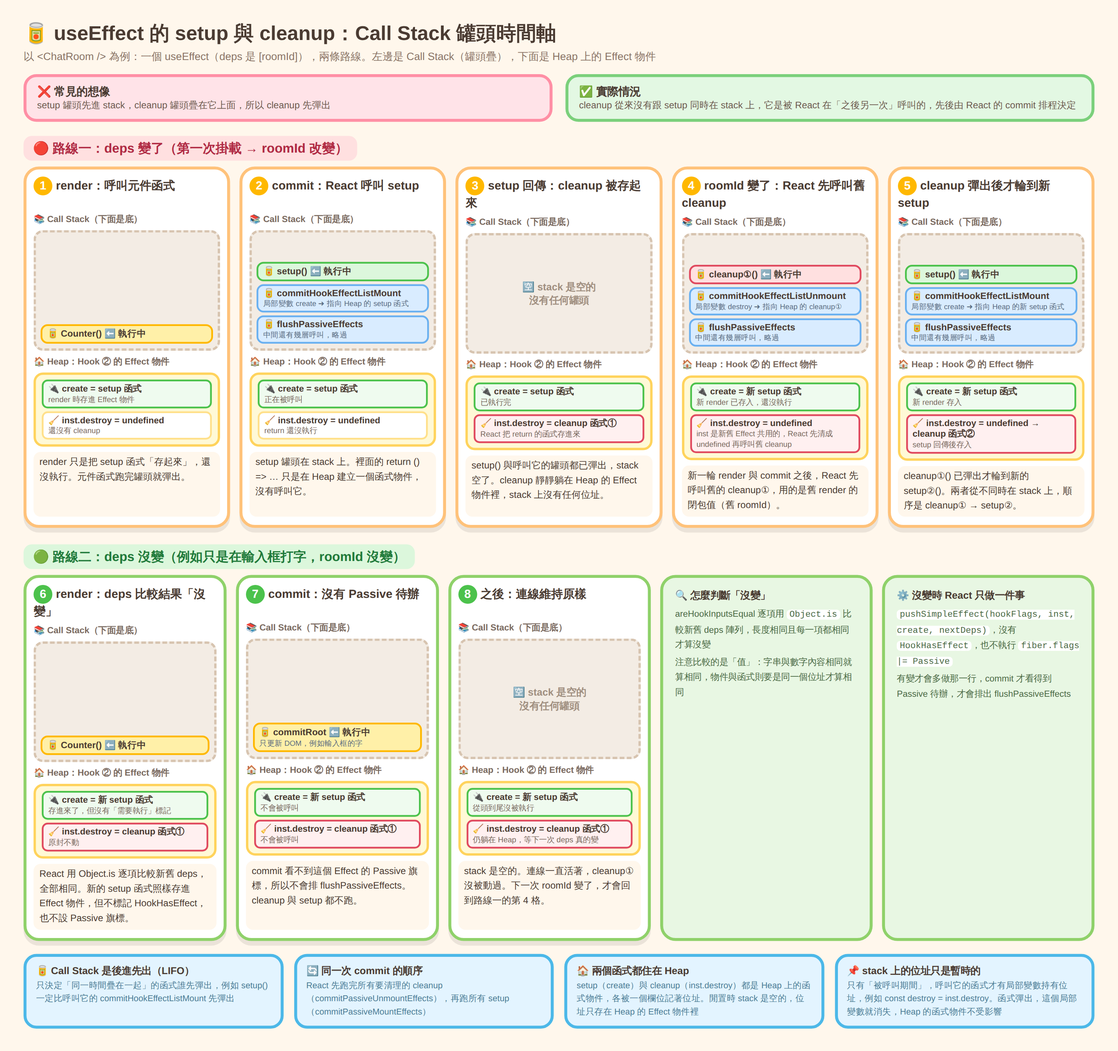
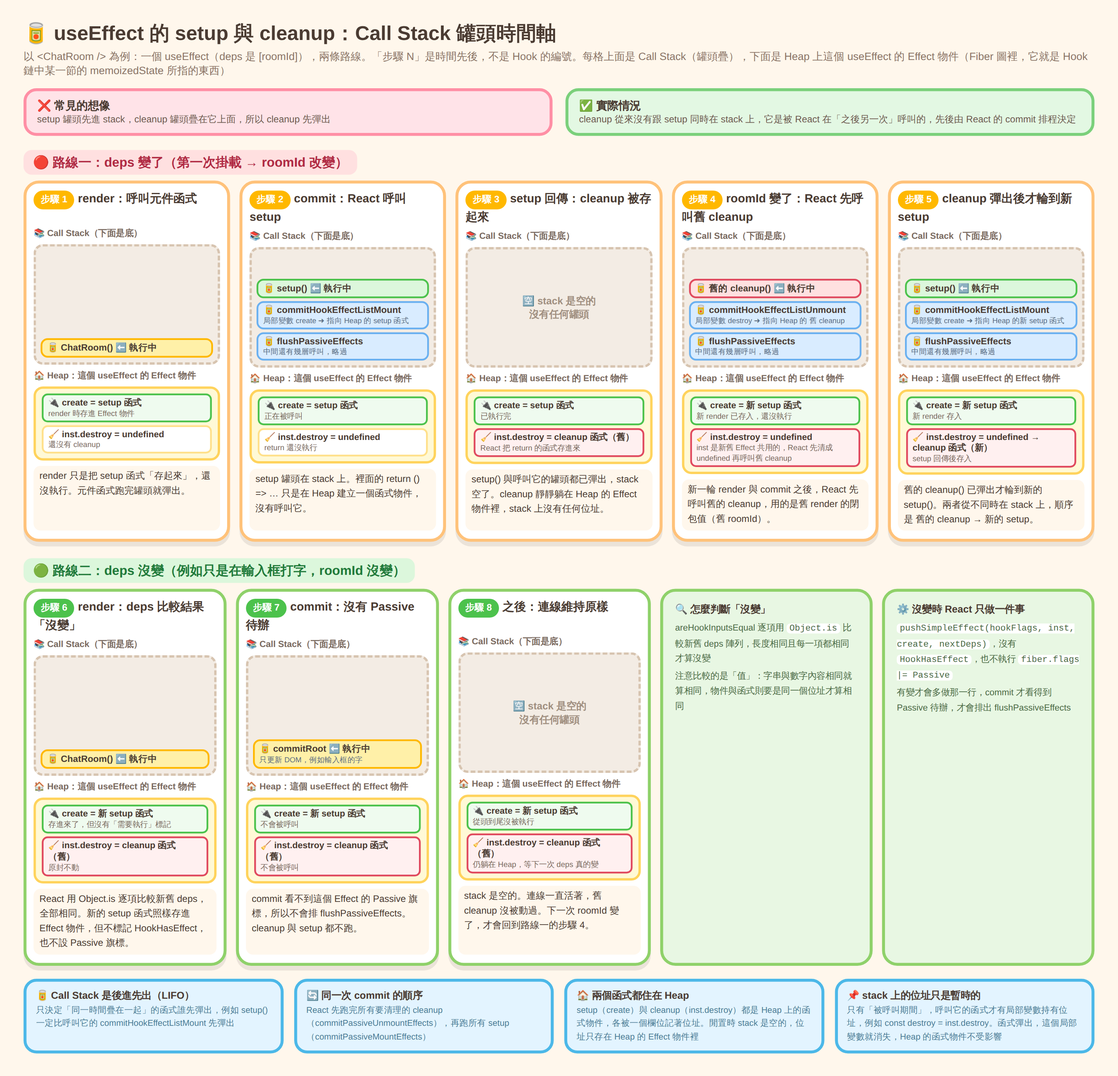
docs: Effect 心智模型圖、環狀結構圖、return 互動圖解、螢光標示、queue 與 inst 說明、Effect 與 useEffect 措辭

diff --git a/frontend-docs/react/useEffect-setup與cleanup-CallStack罐頭時間軸-可愛圖.html b/frontend-docs/react/useEffect-setup與cleanup-CallStack罐頭時間軸-可愛圖.html
@@ -19,7 +19,7 @@ h1{margin:0 0 4px;font-size:34px}
 .fr{flex:1;min-width:0;background:#fff;border-radius:26px;border:5px solid #ffc27a;padding:12px 12px 14px;box-shadow:0 8px 0 rgba(0,0,0,.08);display:flex;flex-direction:column;gap:9px}
 .fr.gr{border-color:#8fd16a}
 .fr h3{margin:0;font-size:20px;line-height:1.35;min-height:54px}
-.fr h3 span{display:inline-block;background:#ffb800;color:#fff;border-radius:50%;width:32px;height:32px;line-height:32px;text-align:center;margin-right:6px}
+.fr h3 span{display:inline-block;background:#ffb800;color:#fff;border-radius:999px;padding:0 12px;height:32px;line-height:32px;text-align:center;margin-right:6px;font-size:16px;white-space:nowrap}
 .fr.gr h3 span{background:#4cc24c}
 .lab{font-size:15px;font-weight:800;color:#7a6a5f}
 .stack{height:205px;background:#f3ece4;border-radius:16px;border:4px dashed #d7c4b0;padding:8px;display:flex;flex-direction:column-reverse;gap:5px}
@@ -45,7 +45,7 @@ h1{margin:0 0 4px;font-size:34px}
 <body>
 <div id="art">
   <h1>🥫 useEffect 的 setup 與 cleanup：Call Stack 罐頭時間軸</h1>
-  <div class="sub">以 &lt;ChatRoom /&gt; 為例：一個 useEffect（deps 是 [roomId]），兩條路線。左邊是 Call Stack（罐頭疊），下面是 Heap 上的 Effect 物件</div>
+  <div class="sub">以 &lt;ChatRoom /&gt; 為例：一個 useEffect（deps 是 [roomId]），兩條路線。「步驟 N」是時間先後，不是 Hook 的編號。每格上面是 Call Stack（罐頭疊），下面是 Heap 上這個 useEffect 的 Effect 物件（Fiber 圖裡，它就是 Hook 鏈中某一節的 memoizedState 所指的東西）</div>
   <div class="vs">
     <div class="no">❌ 常見的想像<small>setup 罐頭先進 stack，cleanup 罐頭疊在它上面，所以 cleanup 先彈出</small></div>
     <div class="ok">✅ 實際情況<small>cleanup 從來沒有跟 setup 同時在 stack 上，它是被 React 在「之後另一次」呼叫的，先後由 React 的 commit 排程決定</small></div>
@@ -64,16 +64,16 @@ h1{margin:0 0 4px;font-size:34px}
 <script>
 var SKIP='中間還有幾層呼叫，略過';
 var A=[
- {t:'render：呼叫元件函式',st:[['Counter()','top']],h:[['create = setup 函式','render 時存進 Effect 物件','su'],['inst.destroy = undefined','還沒有 cleanup','']],c:'render 只是把 setup 函式「存起來」，還沒執行。元件函式跑完罐頭就彈出。'},
+ {t:'render：呼叫元件函式',st:[['ChatRoom()','top']],h:[['create = setup 函式','render 時存進 Effect 物件','su'],['inst.destroy = undefined','還沒有 cleanup','']],c:'render 只是把 setup 函式「存起來」，還沒執行。元件函式跑完罐頭就彈出。'},
  {t:'commit：React 呼叫 setup',st:[['flushPassiveEffects','',SKIP],['commitHookEffectListMount','','局部變數 create ➜ 指向 Heap 的 setup 函式'],['setup()','su top']],h:[['create = setup 函式','正在被呼叫','su'],['inst.destroy = undefined','return 還沒執行','']],c:'setup 罐頭在 stack 上。裡面的 return () =&gt; … 只是在 Heap 建立一個函式物件，沒有呼叫它。'},
- {t:'setup 回傳：cleanup 被存起來',st:[],h:[['create = setup 函式','已執行完','su'],['inst.destroy = cleanup 函式①','React 把 return 的函式存進來','cl']],c:'setup() 與呼叫它的罐頭都已彈出，stack 空了。cleanup 靜靜躺在 Heap 的 Effect 物件裡，stack 上沒有任何位址。'},
- {t:'roomId 變了：React 先呼叫舊 cleanup',st:[['flushPassiveEffects','',SKIP],['commitHookEffectListUnmount','','局部變數 destroy ➜ 指向 Heap 的 cleanup①'],['cleanup①()','cl top']],h:[['create = 新 setup 函式','新 render 已存入，還沒執行','su'],['inst.destroy = undefined','inst 是新舊 Effect 共用的，React 先清成 undefined 再呼叫舊 cleanup','cl']],c:'新一輪 render 與 commit 之後，React 先呼叫舊的 cleanup①，用的是舊 render 的閉包值（舊 roomId）。'},
- {t:'cleanup 彈出後才輪到新 setup',st:[['flushPassiveEffects','',SKIP],['commitHookEffectListMount','','局部變數 create ➜ 指向 Heap 的新 setup 函式'],['setup()','su top']],h:[['create = 新 setup 函式','新 render 存入','su'],['inst.destroy = undefined → cleanup 函式②','setup 回傳後存入','cl']],c:'cleanup①() 已彈出才輪到新的 setup②()。兩者從不同時在 stack 上，順序是 cleanup① → setup②。'}
+ {t:'setup 回傳：cleanup 被存起來',st:[],h:[['create = setup 函式','已執行完','su'],['inst.destroy = cleanup 函式（舊）','React 把 return 的函式存進來','cl']],c:'setup() 與呼叫它的罐頭都已彈出，stack 空了。cleanup 靜靜躺在 Heap 的 Effect 物件裡，stack 上沒有任何位址。'},
+ {t:'roomId 變了：React 先呼叫舊 cleanup',st:[['flushPassiveEffects','',SKIP],['commitHookEffectListUnmount','','局部變數 destroy ➜ 指向 Heap 的 舊 cleanup'],['舊的 cleanup()','cl top']],h:[['create = 新 setup 函式','新 render 已存入，還沒執行','su'],['inst.destroy = undefined','inst 是新舊 Effect 共用的，React 先清成 undefined 再呼叫舊 cleanup','cl']],c:'新一輪 render 與 commit 之後，React 先呼叫舊的 cleanup，用的是舊 render 的閉包值（舊 roomId）。'},
+ {t:'cleanup 彈出後才輪到新 setup',st:[['flushPassiveEffects','',SKIP],['commitHookEffectListMount','','局部變數 create ➜ 指向 Heap 的新 setup 函式'],['setup()','su top']],h:[['create = 新 setup 函式','新 render 存入','su'],['inst.destroy = undefined → cleanup 函式（新）','setup 回傳後存入','cl']],c:'舊的 cleanup() 已彈出才輪到新的 setup()。兩者從不同時在 stack 上，順序是 舊的 cleanup → 新的 setup。'}
 ];
 var B=[
- {t:'render：deps 比較結果「沒變」',st:[['Counter()','top']],h:[['create = 新 setup 函式','存進來了，但沒有「需要執行」標記','su'],['inst.destroy = cleanup 函式①','原封不動','cl']],c:'React 用 Object.is 逐項比較新舊 deps，全部相同。新的 setup 函式照樣存進 Effect 物件，但不標記 HookHasEffect，也不設 Passive 旗標。'},
- {t:'commit：沒有 Passive 待辦',st:[['commitRoot','top','只更新 DOM，例如輸入框的字']],h:[['create = 新 setup 函式','不會被呼叫','su'],['inst.destroy = cleanup 函式①','不會被呼叫','cl']],c:'commit 看不到這個 Effect 的 Passive 旗標，所以不會排 flushPassiveEffects。cleanup 與 setup 都不跑。'},
- {t:'之後：連線維持原樣',st:[],h:[['create = 新 setup 函式','從頭到尾沒被執行','su'],['inst.destroy = cleanup 函式①','仍躺在 Heap，等下一次 deps 真的變','cl']],c:'stack 是空的。連線一直活著，cleanup① 沒被動過。下一次 roomId 變了，才會回到路線一的第 4 格。'}
+ {t:'render：deps 比較結果「沒變」',st:[['ChatRoom()','top']],h:[['create = 新 setup 函式','存進來了，但沒有「需要執行」標記','su'],['inst.destroy = cleanup 函式（舊）','原封不動','cl']],c:'React 用 Object.is 逐項比較新舊 deps，全部相同。新的 setup 函式照樣存進 Effect 物件，但不標記 HookHasEffect，也不設 Passive 旗標。'},
+ {t:'commit：沒有 Passive 待辦',st:[['commitRoot','top','只更新 DOM，例如輸入框的字']],h:[['create = 新 setup 函式','不會被呼叫','su'],['inst.destroy = cleanup 函式（舊）','不會被呼叫','cl']],c:'commit 看不到這個 Effect 的 Passive 旗標，所以不會排 flushPassiveEffects。cleanup 與 setup 都不跑。'},
+ {t:'之後：連線維持原樣',st:[],h:[['create = 新 setup 函式','從頭到尾沒被執行','su'],['inst.destroy = cleanup 函式（舊）','仍躺在 Heap，等下一次 deps 真的變','cl']],c:'stack 是空的。連線一直活著，舊 cleanup 沒被動過。下一次 roomId 變了，才會回到路線一的步驟 4。'}
 ];
 function render(data,id,cls){
   var h='';
@@ -84,7 +84,7 @@ function render(data,id,cls){
     }).join('');
     if(!f.st.length) cans='<div class="empty">🈳 stack 是空的<br>沒有任何罐頭</div>';
     var rows=f.h.map(function(r){return '<div class="row '+r[2]+'">'+(r[2]==='su'?'🔌 ':'🧹 ')+r[0]+(r[1]?'<small>'+r[1]+'</small>':'')+'</div>';}).join('');
-    h+='<div class="fr '+cls+'"><h3><span>'+(i+1+(cls?5:0))+'</span>'+f.t+'</h3><div class="lab">📚 Call Stack（下面是底）</div><div class="stack">'+cans+'</div><div class="lab">🏠 Heap：Hook ② 的 Effect 物件</div><div class="heap">'+rows+'</div><div class="cap">'+f.c+'</div></div>';
+    h+='<div class="fr '+cls+'"><h3><span>步驟 '+(i+1+(cls?5:0))+'</span>'+f.t+'</h3><div class="lab">📚 Call Stack（下面是底）</div><div class="stack">'+cans+'</div><div class="lab">🏠 Heap：這個 useEffect 的 Effect 物件</div><div class="heap">'+rows+'</div><div class="cap">'+f.c+'</div></div>';
   });
   document.getElementById(id).innerHTML=h;
 }

diff --git a/frontend-docs/react/FiberNode內部結構-可愛圖.html b/frontend-docs/react/FiberNode內部結構-可愛圖.html
@@ -85,6 +85,9 @@ td:first-child{width:44px;font-size:26px}
 .tk{font-style:normal;border-radius:8px;padding:1px 9px;font-size:14px;font-weight:800;margin:0 4px}
 .tk.s{background:#d3f9d8;color:#1b6e2c}.tk.c{background:#ffd8e4;color:#a1244a}.tk.n{background:#eceff4;color:#6b7280}
 .smnote{font-size:14px;line-height:1.6;color:#4a5b6a;font-weight:600;margin-top:8px}
+.rcap{font-size:14.5px;color:#4c7d96;font-weight:600;line-height:1.5;margin-bottom:6px}
+.ringbox .rings{display:flex;gap:16px}
+.ringbox .rg{flex:1;min-width:0}
 </style>
 </head>
 <body>
@@ -105,7 +108,7 @@ td:first-child{width:44px;font-size:26px}
       <div style="font-size:17px;color:#6b8a5a">React 依照你呼叫 Hook 的順序，一節一節掛上去（所以 Hook 不能寫在 if 裡）。每一節都是同一種 Hook 物件，差別只在 memoizedState 裡放什麼</div>
       <div class="lane">
         <div class="st">
-          <div class="car st1"><span class="e">🧠</span>Hook ①<small>useState</small></div>
+          <div class="car st1"><span class="e">🧠</span>第 1 個 Hook<small>useState</small></div>
           <div class="down">⬇ 打開</div>
           <div class="pop s">
             <div class="t">🧠 useState 的 Hook 物件</div>
@@ -120,7 +123,7 @@ td:first-child{width:44px;font-size:26px}
         </div>
         <div class="nx">➡<small>next</small></div>
         <div class="st">
-          <div class="car fx"><span class="e">⚡</span>Hook ②<small>useEffect</small></div>
+          <div class="car fx"><span class="e">⚡</span>第 2 個 Hook<small>useEffect</small></div>
           <div class="down">⬇ 打開</div>
           <div class="pop f">
             <div class="t">⚡ useEffect 的 Hook 物件</div>
@@ -136,7 +139,7 @@ td:first-child{width:44px;font-size:26px}
         </div>
         <div class="nx">➡<small>next</small></div>
         <div class="st">
-          <div class="car rf"><span class="e">📦</span>Hook ③<small>useRef</small></div>
+          <div class="car rf"><span class="e">📦</span>第 3 個 Hook<small>useRef</small></div>
           <div class="down">⬇ 打開</div>
           <div class="pop r">
             <div class="t">📦 useRef 的 Hook 物件</div>
@@ -155,25 +158,10 @@ td:first-child{width:44px;font-size:26px}
   <div class="bottom">
     <div class="card ringbox">
       <h2>🔄 真正的「環」有兩個，都不是 Hook 鏈</h2>
+      <div class="rcap">環：最後一個元素的 <code>next</code> 又指回第一個。外面的指標只記住「最後一個」，要找第一個就走一步 <code>last.next</code>。新增元素時接在最後一個後面，再把指標改指向新的最後一個</div>
       <div class="rings">
-        <div class="rg">
-          <div class="cap">① Effect 清單：fiber.updateQueue.lastEffect 指向最後一個</div>
-          <div class="eff">
-            <div class="e1"><span class="e">⚡</span>Effect A</div><span style="font-size:26px">➡</span>
-            <div class="e1"><span class="e">⚡</span>Effect B</div><span style="font-size:26px">➡</span>
-            <div class="e1"><span class="e">⚡</span>Effect C</div>
-          </div>
-          <div class="back">↩ C 的 next 回到 A</div>
-        </div>
-        <div class="rg">
-          <div class="cap">② 待處理更新：hook.queue.pending 指向最後一個</div>
-          <div class="eff">
-            <div class="e1"><span class="e">📨</span>setCount(1)</div><span style="font-size:26px">➡</span>
-            <div class="e1"><span class="e">📨</span>setCount(2)</div><span style="font-size:26px">➡</span>
-            <div class="e1"><span class="e">📨</span>setCount(3)</div>
-          </div>
-          <div class="back">↩ 最後一封的 next 回到第一封</div>
-        </div>
+        <div class="rg"><div class="cap">① Effect 清單（掛在 fiber 上）：這個元件所有 useEffect 與 useLayoutEffect 的 Effect 物件</div><svg viewBox="-60 0 380 300" width="340" height="268" style="display:block;margin:0 auto"><defs><marker id="m2f8fd8" viewBox="0 0 10 10" refX="8" refY="5" markerWidth="7" markerHeight="7" orient="auto"><path d="M0 0L10 5L0 10z" fill="#2f8fd8"/></marker></defs><path d="M196 62 Q262 80 252 150" fill="none" stroke="#2f8fd8" stroke-width="5" stroke-linecap="round" marker-end="url(#m2f8fd8)"/><path d="M186 200 Q150 232 114 200" fill="none" stroke="#2f8fd8" stroke-width="5" stroke-linecap="round" marker-end="url(#m2f8fd8)"/><path d="M48 150 Q40 80 104 62" fill="none" stroke="#2f8fd8" stroke-width="5" stroke-linecap="round" marker-end="url(#m2f8fd8)"/><text x="262" y="100" font-size="13" font-weight="800" fill="#2f8fd8">next</text><text x="132" y="240" font-size="13" font-weight="800" fill="#2f8fd8">next</text><text x="-56" y="104" font-size="13" font-weight="800" fill="#2f8fd8">next（繞回）</text><rect x="98" y="25" width="104" height="46" rx="14" fill="#fff" stroke="#2f8fd8" stroke-width="4"/><text x="150" y="46" font-size="20" text-anchor="middle">⚡</text><text x="150" y="64" font-size="13" font-weight="800" text-anchor="middle" fill="#3a3040">Effect A</text><rect x="186" y="155" width="104" height="46" rx="14" fill="#fff" stroke="#2f8fd8" stroke-width="4"/><text x="238" y="176" font-size="20" text-anchor="middle">⚡</text><text x="238" y="194" font-size="13" font-weight="800" text-anchor="middle" fill="#3a3040">Effect B</text><rect x="10" y="155" width="104" height="46" rx="14" fill="#fff" stroke="#2f8fd8" stroke-width="6"/><text x="62" y="176" font-size="20" text-anchor="middle">⚡</text><text x="62" y="194" font-size="13" font-weight="800" text-anchor="middle" fill="#3a3040">Effect C</text><text x="150" y="132" font-size="13" font-weight="800" text-anchor="middle" fill="#6b5a4f">第一個 ＝ 最後一個.next</text><text x="-56" y="266" font-size="13" font-weight="800" fill="#c0283f">☝ fiber.updateQueue.lastEffect</text><text x="-56" y="285" font-size="13" font-weight="800" fill="#c0283f">　 指向粗框那一個（最後一個）</text></svg></div>
+        <div class="rg"><div class="cap">② 待處理更新（掛在 useState 的 queue 上）：每呼叫一次 setCount 就多一封更新</div><svg viewBox="-60 0 380 300" width="340" height="268" style="display:block;margin:0 auto"><defs><marker id="m8a4fd6" viewBox="0 0 10 10" refX="8" refY="5" markerWidth="7" markerHeight="7" orient="auto"><path d="M0 0L10 5L0 10z" fill="#8a4fd6"/></marker></defs><path d="M196 62 Q262 80 252 150" fill="none" stroke="#8a4fd6" stroke-width="5" stroke-linecap="round" marker-end="url(#m8a4fd6)"/><path d="M186 200 Q150 232 114 200" fill="none" stroke="#8a4fd6" stroke-width="5" stroke-linecap="round" marker-end="url(#m8a4fd6)"/><path d="M48 150 Q40 80 104 62" fill="none" stroke="#8a4fd6" stroke-width="5" stroke-linecap="round" marker-end="url(#m8a4fd6)"/><text x="262" y="100" font-size="13" font-weight="800" fill="#8a4fd6">next</text><text x="132" y="240" font-size="13" font-weight="800" fill="#8a4fd6">next</text><text x="-56" y="104" font-size="13" font-weight="800" fill="#8a4fd6">next（繞回）</text><rect x="98" y="25" width="104" height="46" rx="14" fill="#fff" stroke="#8a4fd6" stroke-width="4"/><text x="150" y="46" font-size="20" text-anchor="middle">📨</text><text x="150" y="64" font-size="13" font-weight="800" text-anchor="middle" fill="#3a3040">setCount(1)</text><rect x="186" y="155" width="104" height="46" rx="14" fill="#fff" stroke="#8a4fd6" stroke-width="4"/><text x="238" y="176" font-size="20" text-anchor="middle">📨</text><text x="238" y="194" font-size="13" font-weight="800" text-anchor="middle" fill="#3a3040">setCount(2)</text><rect x="10" y="155" width="104" height="46" rx="14" fill="#fff" stroke="#8a4fd6" stroke-width="6"/><text x="62" y="176" font-size="20" text-anchor="middle">📨</text><text x="62" y="194" font-size="13" font-weight="800" text-anchor="middle" fill="#3a3040">setCount(3)</text><text x="150" y="132" font-size="13" font-weight="800" text-anchor="middle" fill="#6b5a4f">第一個 ＝ 最後一個.next</text><text x="-56" y="266" font-size="13" font-weight="800" fill="#c0283f">☝ hook.queue.pending</text><text x="-56" y="285" font-size="13" font-weight="800" fill="#c0283f">　 指向粗框那一個（最後一個）</text></svg><div class="rcap" style="margin-top:2px">第一次 setCount 時只有一封，它的 next 指向自己</div></div>
       </div>
     </div>
     <div class="card ctxbox">

diff --git a/frontend-docs/react/02-useEffect的setup清理函式-return一個函式而不是執行它-互動版.html b/frontend-docs/react/02-useEffect的setup清理函式-return一個函式而不是執行它-互動版.html
@@ -150,6 +150,74 @@ footer a{color:var(--accent)}
     <b>用詞校正</b>：<code>return</code> 是<span class="hl-y">回傳／交還</span>，不是「丟出」。
     JS 裡「丟出／拋出」專指 <code>throw</code>（丟例外）。面試時講「丟出」會被聽成 <code>throw</code>。
   </div>
+
+  <h3>圖解：<code>return</code> 這一行，就是「把函式交給 React」的動作（點按鈕一步一步看）</h3>
+  <style>
+  .rt-btns{display:flex;flex-wrap:wrap;gap:8px;margin:8px 0 12px}
+  .rt-btns button{border:1px solid var(--line);background:#fff;border-radius:999px;padding:6px 14px;cursor:pointer;font-family:inherit;font-size:.88rem;font-weight:700;transition:.15s}
+  .rt-btns button.on{background:var(--accent);color:#fff;border-color:var(--accent)}
+  .rt-grid{display:grid;grid-template-columns:1.6fr .8fr 1.2fr;gap:12px}
+  @media(max-width:860px){.rt-grid{grid-template-columns:1fr}}
+  .rt-box{border:2px solid var(--line);border-radius:12px;padding:10px 12px;background:#fbfcfe;min-width:0}
+  .rt-box h4{margin:0 0 6px;font-size:.92rem}
+  .rt-code{background:#1f2430;color:#e8ecf3;border-radius:8px;padding:8px 0;font-family:"JetBrains Mono",Consolas,monospace;font-size:.8rem;line-height:1.8;overflow-x:auto}
+  .rt-code div{padding:0 12px;white-space:pre}
+  .rt-code div.hl{background:#3a4468;border-left:4px solid #ffd166}
+  .rt-stack{display:flex;flex-direction:column-reverse;gap:5px;min-height:120px;background:#f3ece4;border:2px dashed #d7c4b0;border-radius:10px;padding:7px}
+  .rt-can{background:#d9ecff;border:2px solid #6ab0f0;border-radius:8px;padding:3px 8px;font-size:.84rem;font-weight:700}
+  .rt-can.top{background:#fff0a8;border-color:#ffb800}
+  .rt-can.cl{background:#ffe0e0;border-color:#e04a5f}
+  .rt-empty{margin:auto;color:#a08f80;font-weight:700;font-size:.85rem;text-align:center}
+  .rt-row{background:#fff;border:2px solid #ffe08a;border-radius:8px;padding:4px 9px;margin:5px 0;font-size:.84rem;font-weight:700}
+  .rt-row small{display:block;font-weight:400;color:var(--muted);font-size:.78rem}
+  .rt-fn{border:3px solid #e04a5f;background:#fff0f0;border-radius:10px;padding:6px 10px;margin-top:8px;font-size:.84rem;font-weight:700;display:none}
+  .rt-fn.show{display:block}
+  .rt-fn small{display:block;font-weight:400;color:var(--muted);font-size:.78rem}
+  .rt-link{color:#d98324;font-weight:800}
+  .rt-con{background:#1f2430;color:#9fe3b0;border-radius:8px;padding:7px 12px;font-family:Consolas,monospace;font-size:.84rem;margin-top:10px;min-height:2.2em}
+  .rt-say{margin-top:10px;border-left:5px solid var(--accent);background:#eef0ff;border-radius:0 8px 8px 0;padding:9px 13px;font-size:.93rem}
+  .rt-say b{color:#c0283f}
+  </style>
+  <div id="rt-demo">
+    <div class="rt-btns" id="rt-btns"></div>
+    <div class="rt-grid">
+      <div class="rt-box"><h4>📜 你寫的程式碼（黃線是目前執行到哪一行）</h4><div class="rt-code" id="rt-code"></div></div>
+      <div class="rt-box"><h4>📚 Call Stack（下面是底）</h4><div class="rt-stack" id="rt-stack"></div></div>
+      <div class="rt-box"><h4>🏠 Heap：React 的 Effect 物件，與你建立的函式物件</h4>
+        <div class="rt-row">create <small id="rt-create">＝ setup 函式（render 時就存好了）</small></div>
+        <div class="rt-row">inst.destroy <small id="rt-destroy">＝ undefined（還沒有 cleanup）</small></div>
+        <div class="rt-fn" id="rt-fn">🧹 <code>() =&gt; clearInterval(id)</code><small id="rt-fnsub"></small></div>
+      </div>
+    </div>
+    <div class="rt-con" id="rt-con"></div>
+    <div class="rt-say" id="rt-say"></div>
+  </div>
+  <script>
+  (function(){
+    var code=["useEffect(() => {","  const id = setInterval(tick, 1000)","  return () => clearInterval(id)","}, [])"];
+    var steps=[
+      {t:"① React 呼叫 setup()",line:1,stack:[["React 的 commit 函式",""],["setup()","top"]],fn:0,destroy:"＝ undefined（還沒有 cleanup）",con:"計時器 id = 7 已啟動",say:"setup 的第一行在做事：<b>開始同步</b>（啟動計時器）。這是真的在執行。"},
+      {t:"② 執行到 return 這一行",line:2,stack:[["React 的 commit 函式",""],["setup()","top"]],fn:1,fnsub:"剛在 Heap 建立，還沒交給任何人",destroy:"＝ undefined（還是空的）",con:"（沒有任何新輸出：clearInterval 一次都沒被呼叫）",say:"<b>return 這一刻只是「建立」一個函式物件</b>，放在 Heap，<b>沒有執行它</b>。箭頭函式本體裡的 clearInterval(id) 要等到有人呼叫它才會跑。"},
+      {t:"③ setup() 回傳：交給 React",line:3,stack:[["React 的 commit 函式",""]],fn:1,fnsub:"已被 React 收下，背著 id = 7",destroy:"<span class='rt-link'>➜ 指向上面那個 cleanup 函式</span>（React 把它存進來了）",con:"（仍然沒有新輸出）",say:"<b>return 對應的動作，就是「把這個函式交給呼叫 setup 的 React」</b>。React 把它存進 Effect 物件的 inst.destroy。此時 setup() 罐頭已彈出，Stack 上沒有任何 cleanup。"},
+      {t:"④ 之後 deps 改變：React 呼叫 cleanup",line:-1,stack:[["React 的 commit 函式",""],["cleanup()","cl"]],fn:1,fnsub:"正在被 React 呼叫",destroy:"＝ undefined（React 先清空，再呼叫它）",con:"clearInterval(7) 被呼叫，計時器停止",say:"cleanup 是被 React「另一次」呼叫的，<b>從來沒有跟 setup() 同時在 Stack 上</b>。直到這一步，clearInterval 才真的執行。"}
+    ];
+    var $=function(i){return document.getElementById(i)};
+    var btns=$("rt-btns");
+    steps.forEach(function(st,i){var b=document.createElement("button");b.textContent=st.t;b.onclick=function(){show(i)};btns.appendChild(b)});
+    function show(i){
+      var st=steps[i];
+      Array.prototype.forEach.call(btns.children,function(b,k){b.className=k===i?"on":""});
+      $("rt-code").innerHTML=code.map(function(c,k){return "<div class='"+(k===st.line?"hl":"")+"'>"+c.replace(/</g,"&lt;").replace(/>/g,"&gt;")+"</div>"}).join("");
+      $("rt-stack").innerHTML=st.stack.length?st.stack.map(function(c){return "<div class='rt-can "+c[1]+"'>🥫 "+c[0]+(c[1].indexOf("top")>-1||c[1]==="cl"?" ⬅ 執行中":"")+"</div>"}).join(""):"<div class='rt-empty'>stack 是空的</div>";
+      $("rt-fn").className="rt-fn"+(st.fn?" show":"");
+      $("rt-fnsub").textContent=st.fnsub||"";
+      $("rt-destroy").innerHTML=st.destroy;
+      $("rt-con").textContent="> "+st.con;
+      $("rt-say").innerHTML=st.say;
+    }
+    show(0);
+  })();
+  </script>
 </section>
 
 <!-- ============ 填空 ============ -->

diff --git a/frontend-docs/react/Effect心智模型-兩個動作-可愛圖.html b/frontend-docs/react/Effect心智模型-兩個動作-可愛圖.html
@@ -1,0 +1,86 @@
+<!DOCTYPE html>
+<html lang="zh-Hant">
+<head>
+<meta charset="utf-8">
+<title>Effect 的心智模型</title>
+<style>
+*{box-sizing:border-box}
+body{margin:0;background:#fff7ec;font-family:"Noto Sans TC","PingFang TC","Microsoft JhengHei",sans-serif;color:#4a3b32}
+#art{width:1800px;padding:34px 40px 38px;background:#fff7ec}
+h1{margin:0 0 4px;font-size:34px}
+.sub{font-size:18px;color:#8a7466;margin-bottom:18px;line-height:1.6}
+.card{border-radius:26px;border:5px solid;padding:14px 20px;box-shadow:0 8px 0 rgba(0,0,0,.08)}
+.card h2{margin:0 0 8px;font-size:23px}
+.top{display:flex;gap:22px;align-items:stretch}
+.sm{flex:1.25;background:#e9f9e1;border-color:#8fd16a}
+.tr{flex:1;background:#e8f0ff;border-color:#6aa0f0}
+.states{display:flex;align-items:center;justify-content:center;gap:10px;margin-top:6px}
+.bubble{width:250px;border-radius:30px;border:6px solid;padding:14px 12px;text-align:center;font-size:22px;font-weight:800;line-height:1.4}
+.bubble small{display:block;font-size:15px;font-weight:600;margin-top:4px}
+.b0{background:#f1f1f1;border-color:#bbb;color:#777}
+.b1{background:#d3f9d8;border-color:#3fb950;color:#1b6e2c}
+.mid{display:flex;flex-direction:column;gap:14px;align-items:center}
+.act{border-radius:18px;border:4px solid;padding:6px 14px;text-align:center;font-weight:800;font-size:18px;line-height:1.4;width:230px}
+.act code{display:block;font-size:14px;font-weight:600}
+.go{background:#dcf7dc;border-color:#4cc24c;color:#1b6e2c}
+.stop{background:#ffe0e0;border-color:#e04a5f;color:#a1244a}
+.arrow{font-size:34px;line-height:1}
+table{border-collapse:collapse;width:100%;font-size:17px}
+th,td{padding:6px 8px;border-bottom:2px dashed #cdd9f3;text-align:left;vertical-align:top}
+th{font-size:15px;color:#4a6fb0}
+.tk{border-radius:8px;padding:1px 8px;font-weight:800;font-size:15px;margin-right:3px}
+.tk.s{background:#d3f9d8;color:#1b6e2c}.tk.c{background:#ffd8e4;color:#a1244a}.tk.n{background:#eceff4;color:#6b7280}
+.q{margin-top:20px;background:#fff;border-color:#c9b6ff}
+.q .row{display:flex;gap:14px}
+.q .it{flex:1;background:#faf7ff;border:3px solid #dccffb;border-radius:18px;padding:10px 14px;font-size:16px;font-weight:700;line-height:1.55}
+.q .it small{display:block;font-weight:400;font-size:14.5px;color:#6d5a4f;margin-top:3px}
+code{background:#f1ede6;border-radius:5px;padding:0 4px;font-size:14px}
+</style>
+</head>
+<body>
+<div id="art">
+  <h1>🧠 Effect 的心智模型：只有兩個動作</h1>
+  <div class="sub">Effect 就是一段「讓元件和外部系統保持同步」的邏輯。它只有兩個狀態、兩個動作，其他的複雜度都來自「什麼時候觸發這兩個動作」</div>
+
+  <div class="top">
+    <div class="card sm">
+      <h2>🔁 兩個狀態、兩個動作</h2>
+      <div class="states">
+        <div class="bubble b0">💤 沒有同步<small>外部系統沒連著</small></div>
+        <div class="mid">
+          <div class="act go">開始同步<code>＝ setup（connect）</code></div>
+          <div class="arrow">➡</div>
+          <div class="arrow">⬅</div>
+          <div class="act stop">停止同步<code>＝ cleanup（disconnect）</code></div>
+        </div>
+        <div class="bubble b1">🔗 同步中<small>外部系統連著</small></div>
+      </div>
+      <div style="margin-top:14px;font-size:16px;font-weight:600;line-height:1.6">不管事件是掛載、更新還是卸載，Effect 自己只會做這兩件事：<span class="tk s">開始</span>或<span class="tk c">停止</span>。「重新同步」就是先停止再開始</div>
+    </div>
+
+    <div class="card tr">
+      <h2>⚡ 什麼事件會觸發這兩個動作</h2>
+      <table>
+        <tr><th>事件</th><th>實際的動作</th><th>狀態變化</th></tr>
+        <tr><td>元件掛載（mount）</td><td><span class="tk s">開始</span></td><td>💤 ➜ 🔗</td></tr>
+        <tr><td>deps 變了</td><td><span class="tk c">停止</span>➜<span class="tk s">開始</span></td><td>🔗 ➜ 💤 ➜ 🔗<br>元件並沒有卸載</td></tr>
+        <tr><td>re-render 但 deps 沒變</td><td><span class="tk n">什麼都不做</span></td><td>🔗 維持</td></tr>
+        <tr><td>元件卸載（unmount）</td><td><span class="tk c">停止</span></td><td>🔗 ➜ 💤</td></tr>
+        <tr><td>開發模式 StrictMode，掛載時</td><td><span class="tk s">開始</span>➜<span class="tk c">停止</span>➜<span class="tk s">開始</span></td><td>🔗 ➜ 💤 ➜ 🔗<br>故意多演練一次</td></tr>
+      </table>
+    </div>
+  </div>
+
+  <div class="card q">
+    <h2>❓ 「只有兩個動作」有那麼簡單嗎？動作確實只有兩個，但這五件事要知道</h2>
+    <div class="row">
+      <div class="it">① 動作少，觸發的事件多<small>上表有五種情況。讀官方文件時，要先分清楚是哪個事件在觸發</small></div>
+      <div class="it">② 一個元件可以有很多個 Effect<small>每個 <code>useEffect</code> 是獨立的一組，各自在兩個狀態間切換，互不干擾</small></div>
+      <div class="it">③ 每一輪同步用的是「那一次 render 的值」<small>停止用舊值，開始用新值，這是閉包的結果</small></div>
+      <div class="it">④ 停止可以是空的<small>沒寫 return cleanup 的 Effect，「停止」什麼都不會做</small></div>
+      <div class="it">⑤ 想讀最新值又不想重新同步<small>用 Effect Event（<code>useEffectEvent</code>），它讀得到最新的 props 與 state，但不會讓 Effect 重新同步</small></div>
+    </div>
+  </div>
+</div>
+</body>
+</html>

diff --git a/frontend-docs/react/useState底層-Fiber-Tree-memoizedState與過期閉包.md b/frontend-docs/react/useState底層-Fiber-Tree-memoizedState與過期閉包.md
@@ -112,6 +112,18 @@ setup 與 cleanup 在圖上的位置：`create` 就是 setup 函式，在 render
 cleanup 不在 `queue`（`useEffect` 的 `queue` 是 `null`），也不在 Hook 的 `next`（那是下一節 Hook）。
 `inst` 是跨 render 共用的，所以新舊 Effect 物件都指到同一個 `inst`，React 才找得到「上一次留下的 cleanup」。時間軸見 [[02-useEffect的setup清理函式-return一個函式而不是執行它]] 的 (g)。
 
+**`queue` 是什麼（一句話）：它是 `useState` 的「待辦信箱」，每呼叫一次 `setCount`，React 就丟一封「更新」進去，下一次 render 時照順序拆信，算出新的 state。**
+
+| `queue` 的欄位 | 白話 |
+|---|---|
+| `pending` | 還沒處理的更新，串成環，指向最後一封 |
+| `dispatch` | 就是 `setCount` 本人（`dispatchSetState.bind(null, fiber, queue)`），綁好了「要把信丟進哪個 Hook 的 queue」 |
+| `lastRenderedReducer` | 算新值的規則，`useState` 用的是 `basicStateReducer`：action 是函式就呼叫它，否則直接當新值 |
+| `lastRenderedState` | 上一次 render 用的 state，用來在信箱是空時先試算一個值 |
+
+流程：`setCount(1)` → `dispatchSetState` 建立一封 Update 接到 `queue.pending` 的環上 → 排定 re-render → render 時 `updateReducerImpl` 把 `pending` 併進 `baseQueue`，逐封套用 reducer → 結果存進 Hook 的 `memoizedState`。
+信箱是空的時候，React 還會先用 `lastRenderedReducer` 試算一次，新舊值相同就不排 re-render。
+
 **為什麼 `useEffect` 的 `queue` 是 `null`？**
 `queue` 是「更新信箱」，專門收 `setState`／`dispatch` 排進來的待處理更新。只有「有 setter、會被人呼叫來排更新」的 Hook 才需要它。`useEffect` 沒有 setter，更新來源只有「下一次 render 時 React 自己比較 deps」，所以 `mountEffectImpl` 完全沒去設定 `hook.queue`，維持 `mountWorkInProgressHook` 建立時的初值 `null`。
 
@@ -121,6 +133,8 @@ cleanup 不在 `queue`（`useEffect` 的 `queue` 是 `null`），也不在 Hook 
 | `useReducer` | 有，`dispatch` | 有 |
 | `useEffect` | 沒有 | `null` |
 | `useRef` | 沒有，改 `current` 不排程 | `null` |
+
+**`create`、`inst` 算 Hook 的屬性嗎？** 不算，它們是 <mark style="background: #ADCCFFA6;">**Effect 物件**</mark>的屬性。Hook 物件只有 `memoizedState`、`baseState`、`baseQueue`、`queue`、`next` 五個屬性，其中 `useEffect` 那一節 Hook 的 `memoizedState` 指向 Effect 物件，Effect 物件才有 `tag`、`create`、`deps`、`inst`、`next`。`inst` 本身又是一個物件 `{ destroy }`，所以 cleanup 的位置是「Hook.memoizedState → Effect.inst.destroy」。
 
 **`inst` 到底是什麼？**
 `inst` 是 instance（實例）的縮寫，一個只有一個欄位的小物件 `{ destroy }`，掛載時用 `createEffectInstance()` 建立一次，之後這個 Effect 一輩子都用同一個。

diff --git a/frontend-docs/react/02-useEffect的setup清理函式-return一個函式而不是執行它.md b/frontend-docs/react/02-useEffect的setup清理函式-return一個函式而不是執行它.md
@@ -29,6 +29,10 @@ updated: 2026-09-15
 > [!important]+ 最常被搞錯的一件事先講
 > <mark style="background: #FF5582A6;">`return () => clearInterval(id)` 這一行執行時，`clearInterval` 一次都沒有被呼叫</mark>。它只是**建立**了一個函式物件並交還給 React。`clearInterval(id)` 要等到 React 決定該清理時、真的去呼叫那個函式，才會被執行。差一個箭頭（`return clearInterval(id)`）行為就完全相反——那才是當場執行。
 
+> [!important] 新觀念：cleanup 是 setup 函式 `return` 出來的函式
+> 通常是以 <mark style="background: #FFF3A3A6;">**setup 函式為主體**</mark>，由它 <mark style="background: #FF5582A6;">**`return` 出一個 cleanup 函式**</mark> 交給 React，而不是另外多傳一個參數給 `useEffect`。
+> `return` 這一刻 <mark style="background: #BBFABBA6;">只是建立並交出這個函式，沒有執行它</mark>。互動版第一節有逐步圖解：`02-useEffect的setup清理函式-return一個函式而不是執行它-互動版.html`。
+
 | 5W1H | 問題 | 一句話答案 |
 |---|---|---|
 | **What** 是什麼 | 清理函式是什麼？ | `useEffect` 的第一個參數（setup function）可以選擇性回傳一個「不收參數、不回傳值」的函式，React 官方稱它 cleanup function |
